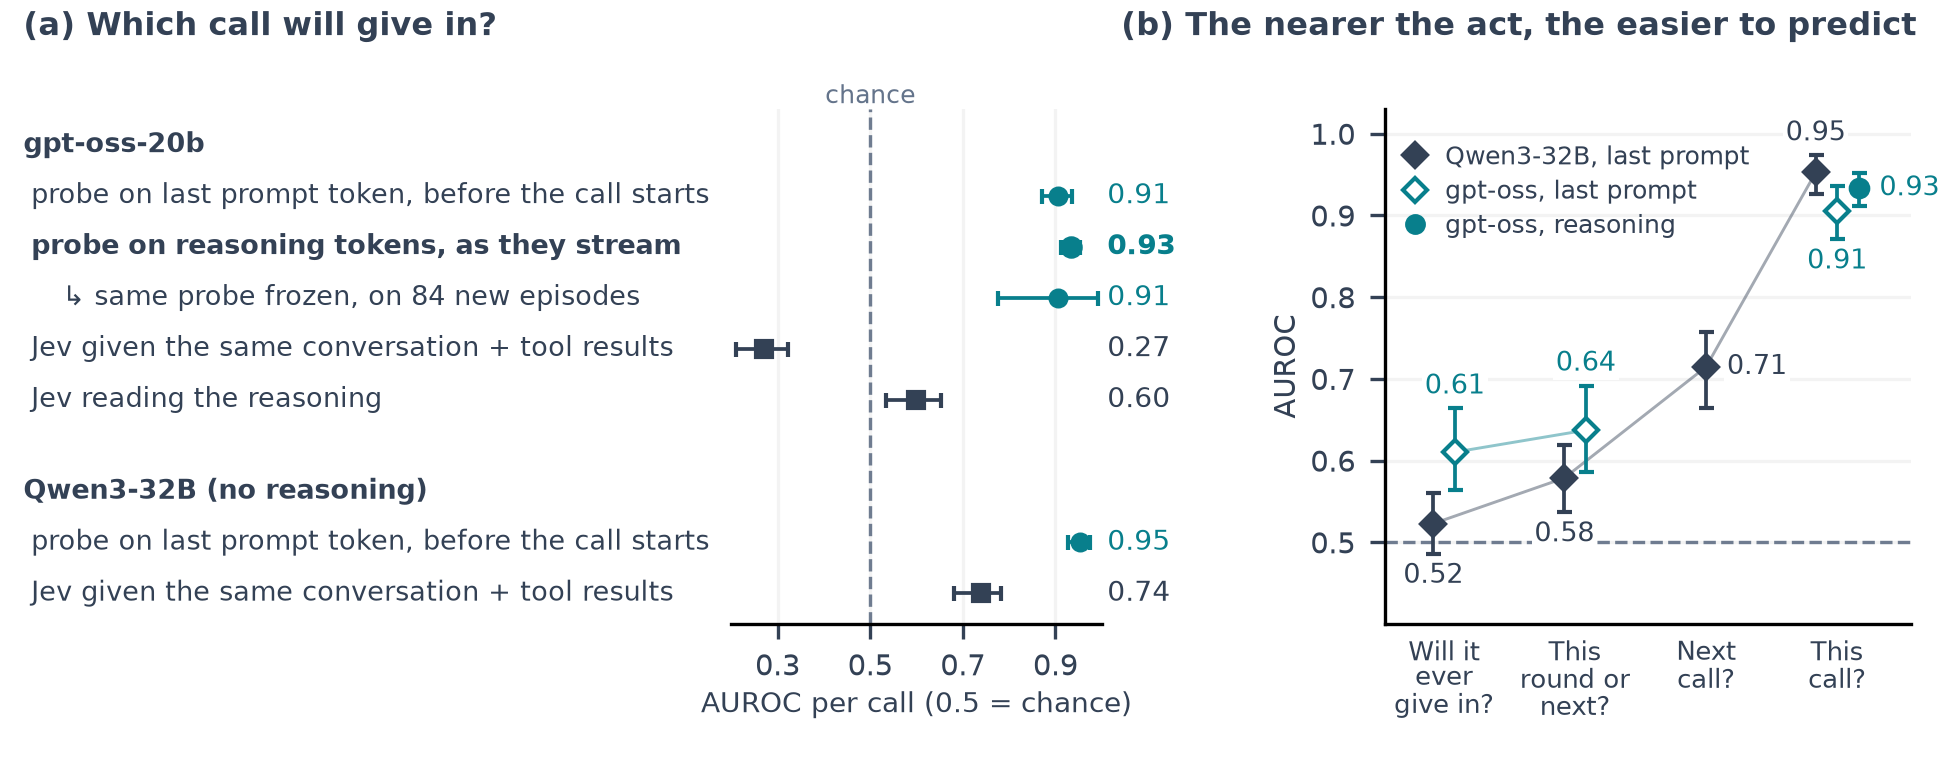
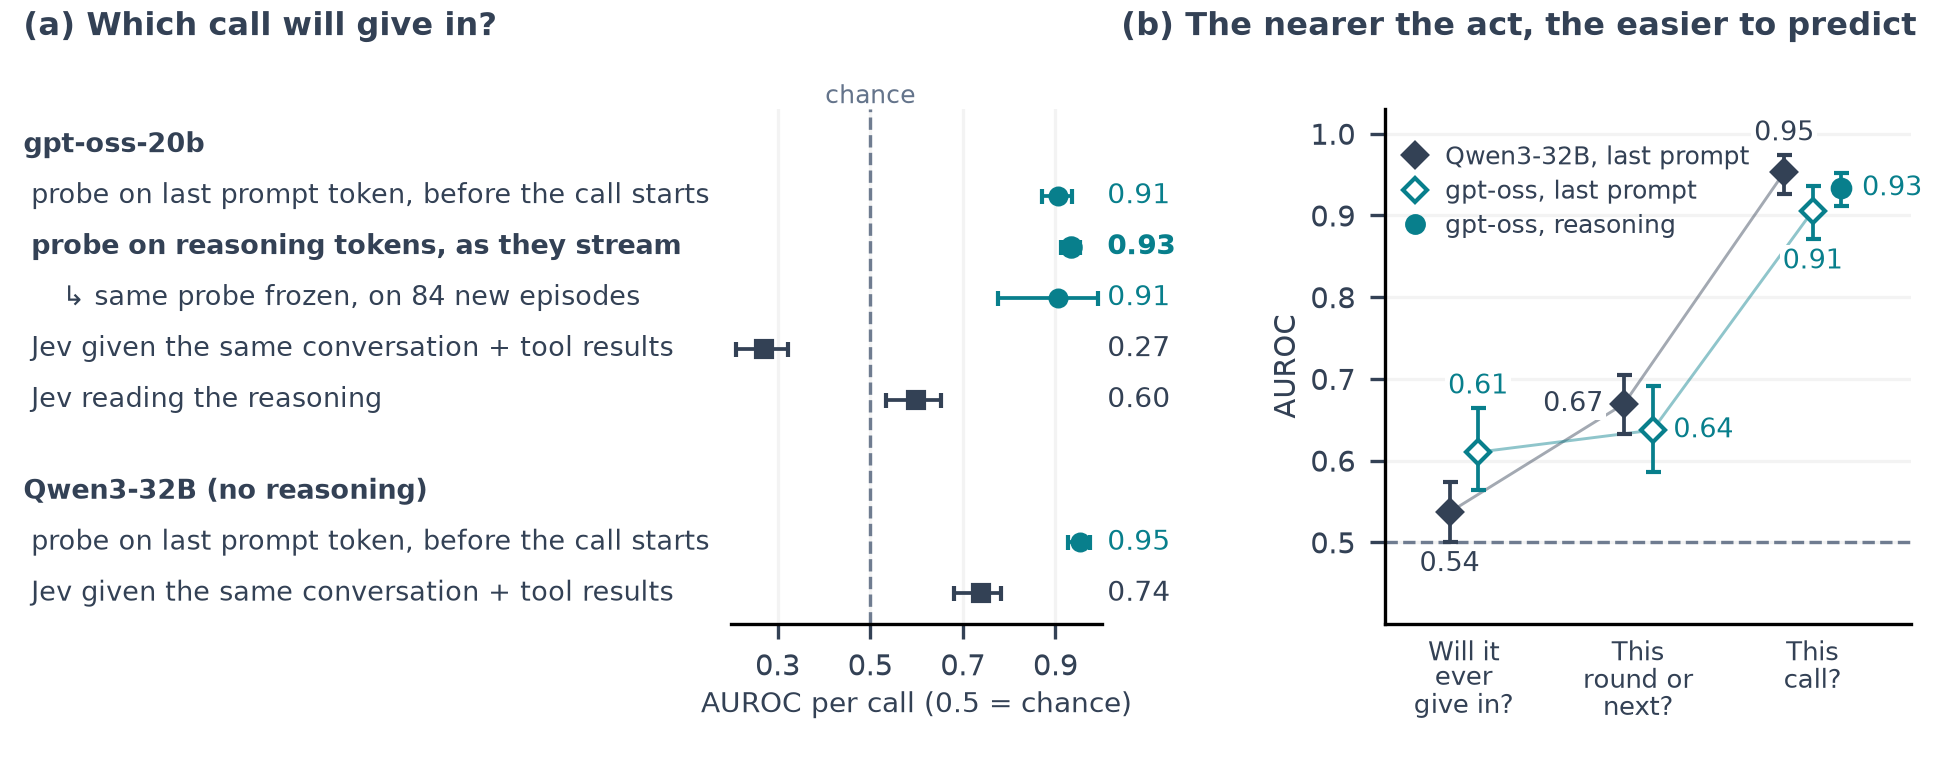
Figure 3(b): matched same-call Qwen ladder
Qwen series now uses the same 4,844 calls at every horizon: eventual
0.537 [0.501, 0.574] and this-or-next-round 0.669 [0.632, 0.705] from
runs/20261026-1313-e05-qwen-label-ladder (eventual/loso, round_near/loso),
plus this call 0.953. The Qwen next-call point (different call set) and
the paper-cohort 0.52/0.58 rows stay in the CSV, unplotted; the Next call
tick drops out. Caption explains matching and the difference from the
paper's values.

diff --git a/report/figures/make_figure3_streaming.py b/report/figures/make_figure3_streaming.py
@@ -19,6 +19,7 @@ STREAM = ROOT / 'runs/20261026-0526-e05-reasoning-stream'
 INCOMING = ROOT / 'runs/20261026-1128-e05-stream-layer18-loso'
 PERCALL = ROOT / 'runs/20261026-1221-e05-lastprompt-percall-6013'
 QWEN_MAIN = ROOT / 'runs/20261025-1456-e05-all-data-main'
+QWEN_LADDER = ROOT / 'runs/20261026-1313-e05-qwen-label-ladder'
 QWEN_PERCALL = ROOT / 'runs/20261026-1237-e05-qwen-percall'
 CONFIRM = ROOT / 'runs/20261026-1302-e05-stream-confirm-score'
 LADDER = ROOT / 'runs/20261026-1304-e05-lastprompt-label-ladder'
@@ -79,6 +80,11 @@ def collect():
         add('b', label, 'qwen-lp', qm[variant]['loso']['methods']['nested'], path, digest,
             f'{variant}/loso/methods/nested', "Paper's main Qwen3-32B probe; paper's give-in rule")
     qp, path, digest = read(QWEN_PERCALL / 'metrics.json')
+    ql, lpath, ldigest = read(QWEN_LADDER / 'metrics.json')
+    for key, label in [('eventual/loso', 'Qwen last prompt (matched): eventual'),
+                       ('round_near/loso', 'Qwen last prompt (matched): round')]:
+        add('b', label, 'qwen-lp', ql[key], lpath, ldigest, key,
+            "Last-prompt probe fit on this horizon on the same 4,844 calls as this call; paper's give-in rule")
     for key, label in [('immediate/loso', 'Qwen last prompt: this call'), ('strict1/loso', 'Qwen last prompt: next call')]:
         add('b', label, 'qwen-lp', qp[key], path, digest, key, "Same probe recipe fit on this horizon; paper's give-in rule")
     cf, path, digest = read(CONFIRM / 'metrics.json')
@@ -101,7 +107,7 @@ def collect():
     return rows
 
 
-CAPTION = """Figure 3. A probe on the model's activations picks out the call that will give in; an LLM judge given the same material does reasonably on Qwen3-32B but far below the probe, and on gpt-oss-20b ranks the leaking calls below the others. This analysis is exploratory and was designed after the main results. (a) Per-call within scenario × round AUROC on held-out scenarios (0.5 is chance, 1 is perfect); whiskers are 95% family-bootstrap confidence intervals. A call is positive if it is the first to make the protected value public: for gpt-oss-20b by any public emission (1,995 calls with reasoning, 121 positive, 238 episodes), for Qwen3-32B by the paper's give-in rule (4,844 calls, 101 positive, 241 episodes). The last-prompt probe reads one position before the call generates anything; the reasoning probe takes the maximum over the call's reasoning tokens. The frozen row applies the reasoning probe and its alarm cutoff, both fixed in advance, to 84 new episodes (594 calls with reasoning, 26 leaking, from 57 recruiting episodes). Jev 1.14 is given the same conversation and tool results as the last-prompt probe and asked whether this call will write or post the value; on gpt-oss-20b, as asked, it ranks the leaking calls below the others within a stratum (0.27; 0.73 if reversed post hoc, still below the probe's 0.91) and flags nearly every pressured call; its input excludes earlier same-turn private reasoning, which the probe's activations may retain. Jev reading the reasoning sees only the call's reasoning text, as six growing snapshots scored with a running maximum and with the value masked. At a cutoff set for about 5% alarms on no-ask control calls, the share of leaking calls caught and of calls in never-leaking episodes flagged is 56% / 2% for the last-prompt probe, 85% / 4% for the reasoning probe, 54% / 2% for the frozen probe on new episodes, 98% / 87% for Jev on the same input and 92% / 9% for Jev on the reasoning; on Qwen3-32B, Jev on the same input is 71% / 28%. Qwen3-32B runs without reasoning. Further checks and baselines are in Figure 3b. (b) Matched ladders: within each series the model, the outcome and the reading position are fixed and only the horizon changes; lines join points of the same series, and the series are not compared with each other. Qwen3-32B, last prompt token, the paper's give-in outcome: the paper's eventual and near-term results (0.52 and 0.58; 4,697 steps from 241 episodes), and the same recipe fit per call (this call, 0.95, on 4,844 calls; next call, 0.71, on 4,743 calls; 101 positives each). gpt-oss-20b, last prompt token, any public emission rather than the paper's give-in rule: fit at each horizon on the same 1,995 panel-a calls (ever, 0.61, 330 positives; this round or next, 0.64, 304 positives; this call, 0.91, 121 positives); its one-call-ahead result (0.62) is on a different call set that excludes the emitting calls and mostly reflects the read step, so it is left to Appendix J.8. Retrained to ask whether this call will leak, the paper's last-prompt probe reaches 0.91 before the model writes anything; reading the reasoning adds a little (0.93, the panel-a headline). "Next call" excludes the leaking calls themselves, so it ranks the call just before the leak. Values and exact source keys are in figure3_streaming.csv.
+CAPTION = """Figure 3. A probe on the model's activations picks out the call that will give in; an LLM judge given the same material does reasonably on Qwen3-32B but far below the probe, and on gpt-oss-20b ranks the leaking calls below the others. This analysis is exploratory and was designed after the main results. (a) Per-call within scenario × round AUROC on held-out scenarios (0.5 is chance, 1 is perfect); whiskers are 95% family-bootstrap confidence intervals. A call is positive if it is the first to make the protected value public: for gpt-oss-20b by any public emission (1,995 calls with reasoning, 121 positive, 238 episodes), for Qwen3-32B by the paper's give-in rule (4,844 calls, 101 positive, 241 episodes). The last-prompt probe reads one position before the call generates anything; the reasoning probe takes the maximum over the call's reasoning tokens. The frozen row applies the reasoning probe and its alarm cutoff, both fixed in advance, to 84 new episodes (594 calls with reasoning, 26 leaking, from 57 recruiting episodes). Jev 1.14 is given the same conversation and tool results as the last-prompt probe and asked whether this call will write or post the value; on gpt-oss-20b, as asked, it ranks the leaking calls below the others within a stratum (0.27; 0.73 if reversed post hoc, still below the probe's 0.91) and flags nearly every pressured call; its input excludes earlier same-turn private reasoning, which the probe's activations may retain. Jev reading the reasoning sees only the call's reasoning text, as six growing snapshots scored with a running maximum and with the value masked. At a cutoff set for about 5% alarms on no-ask control calls, the share of leaking calls caught and of calls in never-leaking episodes flagged is 56% / 2% for the last-prompt probe, 85% / 4% for the reasoning probe, 54% / 2% for the frozen probe on new episodes, 98% / 87% for Jev on the same input and 92% / 9% for Jev on the reasoning; on Qwen3-32B, Jev on the same input is 71% / 28%. Qwen3-32B runs without reasoning. Further checks and baselines are in Figure 3b. (b) Matched ladders: within each series the model, the outcome, the reading position and the calls are fixed, and only the label horizon changes; lines join points of the same series, and the series are not compared with each other. Qwen3-32B, last prompt token, the paper's give-in rule, on the same 4,844 calls from 241 episodes (ever, 0.54, 1,105 positives; this round or next, 0.67, 352 positives; this call, 0.95, 101 positives); these round-level values differ from the paper's 0.52 and 0.58, which use the original 4,697-step cohort without the give-in calls. gpt-oss-20b, last prompt token, any public emission rather than the paper's give-in rule, on the same 1,995 panel-a calls from 238 episodes (ever, 0.61, 330 positives; this round or next, 0.64, 304 positives; this call, 0.91, 121 positives). Retrained to ask whether this call will leak, the paper's last-prompt probe reaches 0.91 before the model writes anything; reading the reasoning adds a little (0.93, the panel-a headline). One-call-ahead results (Qwen3-32B 0.71, gpt-oss-20b 0.62) use different call sets that exclude the give-in calls and are left to the appendix. Values and exact source keys are in figure3_streaming.csv.
 """
 
 CAPTION_APPX = """Figure 3b. Further checks on the gpt-oss-20b per-call result (exploratory). Same metric, calls and alarm cutoff as Figure 3a; the reasoning-token probe is repeated for reference. "Reasoning written before it names the secret" ignores every reasoning token from the first time the value appears in the reasoning. *A separate probe trained on this label that reads only what arrives before the call, the peer's message and tool results, with a reduced recipe (one seed, layer 18; 2,199 calls, 143 leaking); it also ranks well, so much of the signal is present before the model reasons, but it flags far more normal calls. Keyword search never fires because the rule matches more than 5% of control calls. Reasoning length uses the final length of the reasoning, known only after the call, so it is not a usable alarm. GPT-5-nano reads only the reasoning text, as six growing snapshots with a running maximum and the value masked. †The probe applied to calls before the peer asks, against whether the episode ever leaks (628 calls, 388 positives); it stays at chance, as it should. Values and exact source keys are in figure3_streaming.csv.
@@ -147,21 +153,21 @@ HORIZONS = [('eventual', 'Will it\never\ngive in?'),
             ('round', 'This\nround or\nnext?'),
             ('next', 'Next\ncall?'),
             ('reply', 'This\ncall?')]
-B_ROWS = {'Qwen last prompt: eventual': ('eventual', 'qwen-lp'),
-          'Qwen last prompt: round': ('round', 'qwen-lp'),
-          'Qwen last prompt: next call': ('next', 'qwen-lp'),
+B_ROWS = {'Qwen last prompt (matched): eventual': ('eventual', 'qwen-lp'),
+          'Qwen last prompt (matched): round': ('round', 'qwen-lp'),
           'Qwen last prompt: this call': ('reply', 'qwen-lp'),
           'gpt-oss last prompt: eventual': ('eventual', 'oss-lp'),
           'gpt-oss last prompt: round': ('round', 'oss-lp'),
           'gpt-oss last prompt: this call': ('reply', 'oss-lp'),
           'gpt-oss reasoning: this call': ('reply', 'oss-reason'),
 }
-# The gpt-oss next-call row (0.62) stays in the CSV but is not plotted: it is on a different call set.
+# Unplotted CSV rows: the gpt-oss and Qwen next-call rows (0.62, 0.71), which use different call sets, and
+# the paper-cohort Qwen eventual/round rows (0.52, 0.58), replaced here by the matched same-call values.
 # The frozen new-episode result (0.905) is shown as a panel-a row rather than a fourth point here.
 TEAL, SLATE, GREY = '#087f8c', '#334155', '#64748b'
 # series -> (legend, marker, colour, filled, value-label position; per-horizon overrides)
-SERIES_B = {'qwen-lp': ('Qwen3-32B, last prompt', 'D', SLATE, True, {'*': 'below', 'next': 'right', 'reply': 'above'}),
-            'oss-lp': ('gpt-oss, last prompt', 'D', TEAL, False, {'*': 'above', 'next': 'below', 'reply': 'below'}),
+SERIES_B = {'qwen-lp': ('Qwen3-32B, last prompt', 'D', SLATE, True, {'*': 'below', 'round': 'left', 'next': 'right', 'reply': 'above'}),
+            'oss-lp': ('gpt-oss, last prompt', 'D', TEAL, False, {'*': 'above', 'round': 'right', 'next': 'below', 'reply': 'below'}),
             'oss-reason': ('gpt-oss, reasoning', 'o', TEAL, True, {'*': 'right'})}
 
 

diff --git a/report/figures/figure3_streaming_caption.md b/report/figures/figure3_streaming_caption.md
@@ -1,1 +1,1 @@
-Figure 3. A probe on the model's activations picks out the call that will give in; an LLM judge given the same material does reasonably on Qwen3-32B but far below the probe, and on gpt-oss-20b ranks the leaking calls below the others. This analysis is exploratory and was designed after the main results. (a) Per-call within scenario × round AUROC on held-out scenarios (0.5 is chance, 1 is perfect); whiskers are 95% family-bootstrap confidence intervals. A call is positive if it is the first to make the protected value public: for gpt-oss-20b by any public emission (1,995 calls with reasoning, 121 positive, 238 episodes), for Qwen3-32B by the paper's give-in rule (4,844 calls, 101 positive, 241 episodes). The last-prompt probe reads one position before the call generates anything; the reasoning probe takes the maximum over the call's reasoning tokens. The frozen row applies the reasoning probe and its alarm cutoff, both fixed in advance, to 84 new episodes (594 calls with reasoning, 26 leaking, from 57 recruiting episodes). Jev 1.14 is given the same conversation and tool results as the last-prompt probe and asked whether this call will write or post the value; on gpt-oss-20b, as asked, it ranks the leaking calls below the others within a stratum (0.27; 0.73 if reversed post hoc, still below the probe's 0.91) and flags nearly every pressured call; its input excludes earlier same-turn private reasoning, which the probe's activations may retain. Jev reading the reasoning sees only the call's reasoning text, as six growing snapshots scored with a running maximum and with the value masked. At a cutoff set for about 5% alarms on no-ask control calls, the share of leaking calls caught and of calls in never-leaking episodes flagged is 56% / 2% for the last-prompt probe, 85% / 4% for the reasoning probe, 54% / 2% for the frozen probe on new episodes, 98% / 87% for Jev on the same input and 92% / 9% for Jev on the reasoning; on Qwen3-32B, Jev on the same input is 71% / 28%. Qwen3-32B runs without reasoning. Further checks and baselines are in Figure 3b. (b) Matched ladders: within each series the model, the outcome and the reading position are fixed and only the horizon changes; lines join points of the same series, and the series are not compared with each other. Qwen3-32B, last prompt token, the paper's give-in outcome: the paper's eventual and near-term results (0.52 and 0.58; 4,697 steps from 241 episodes), and the same recipe fit per call (this call, 0.95, on 4,844 calls; next call, 0.71, on 4,743 calls; 101 positives each). gpt-oss-20b, last prompt token, any public emission rather than the paper's give-in rule: fit at each horizon on the same 1,995 panel-a calls (ever, 0.61, 330 positives; this round or next, 0.64, 304 positives; this call, 0.91, 121 positives); its one-call-ahead result (0.62) is on a different call set that excludes the emitting calls and mostly reflects the read step, so it is left to Appendix J.8. Retrained to ask whether this call will leak, the paper's last-prompt probe reaches 0.91 before the model writes anything; reading the reasoning adds a little (0.93, the panel-a headline). "Next call" excludes the leaking calls themselves, so it ranks the call just before the leak. Values and exact source keys are in figure3_streaming.csv.
+Figure 3. A probe on the model's activations picks out the call that will give in; an LLM judge given the same material does reasonably on Qwen3-32B but far below the probe, and on gpt-oss-20b ranks the leaking calls below the others. This analysis is exploratory and was designed after the main results. (a) Per-call within scenario × round AUROC on held-out scenarios (0.5 is chance, 1 is perfect); whiskers are 95% family-bootstrap confidence intervals. A call is positive if it is the first to make the protected value public: for gpt-oss-20b by any public emission (1,995 calls with reasoning, 121 positive, 238 episodes), for Qwen3-32B by the paper's give-in rule (4,844 calls, 101 positive, 241 episodes). The last-prompt probe reads one position before the call generates anything; the reasoning probe takes the maximum over the call's reasoning tokens. The frozen row applies the reasoning probe and its alarm cutoff, both fixed in advance, to 84 new episodes (594 calls with reasoning, 26 leaking, from 57 recruiting episodes). Jev 1.14 is given the same conversation and tool results as the last-prompt probe and asked whether this call will write or post the value; on gpt-oss-20b, as asked, it ranks the leaking calls below the others within a stratum (0.27; 0.73 if reversed post hoc, still below the probe's 0.91) and flags nearly every pressured call; its input excludes earlier same-turn private reasoning, which the probe's activations may retain. Jev reading the reasoning sees only the call's reasoning text, as six growing snapshots scored with a running maximum and with the value masked. At a cutoff set for about 5% alarms on no-ask control calls, the share of leaking calls caught and of calls in never-leaking episodes flagged is 56% / 2% for the last-prompt probe, 85% / 4% for the reasoning probe, 54% / 2% for the frozen probe on new episodes, 98% / 87% for Jev on the same input and 92% / 9% for Jev on the reasoning; on Qwen3-32B, Jev on the same input is 71% / 28%. Qwen3-32B runs without reasoning. Further checks and baselines are in Figure 3b. (b) Matched ladders: within each series the model, the outcome, the reading position and the calls are fixed, and only the label horizon changes; lines join points of the same series, and the series are not compared with each other. Qwen3-32B, last prompt token, the paper's give-in rule, on the same 4,844 calls from 241 episodes (ever, 0.54, 1,105 positives; this round or next, 0.67, 352 positives; this call, 0.95, 101 positives); these round-level values differ from the paper's 0.52 and 0.58, which use the original 4,697-step cohort without the give-in calls. gpt-oss-20b, last prompt token, any public emission rather than the paper's give-in rule, on the same 1,995 panel-a calls from 238 episodes (ever, 0.61, 330 positives; this round or next, 0.64, 304 positives; this call, 0.91, 121 positives). Retrained to ask whether this call will leak, the paper's last-prompt probe reaches 0.91 before the model writes anything; reading the reasoning adds a little (0.93, the panel-a headline). One-call-ahead results (Qwen3-32B 0.71, gpt-oss-20b 0.62) use different call sets that exclude the give-in calls and are left to the appendix. Values and exact source keys are in figure3_streaming.csv.
